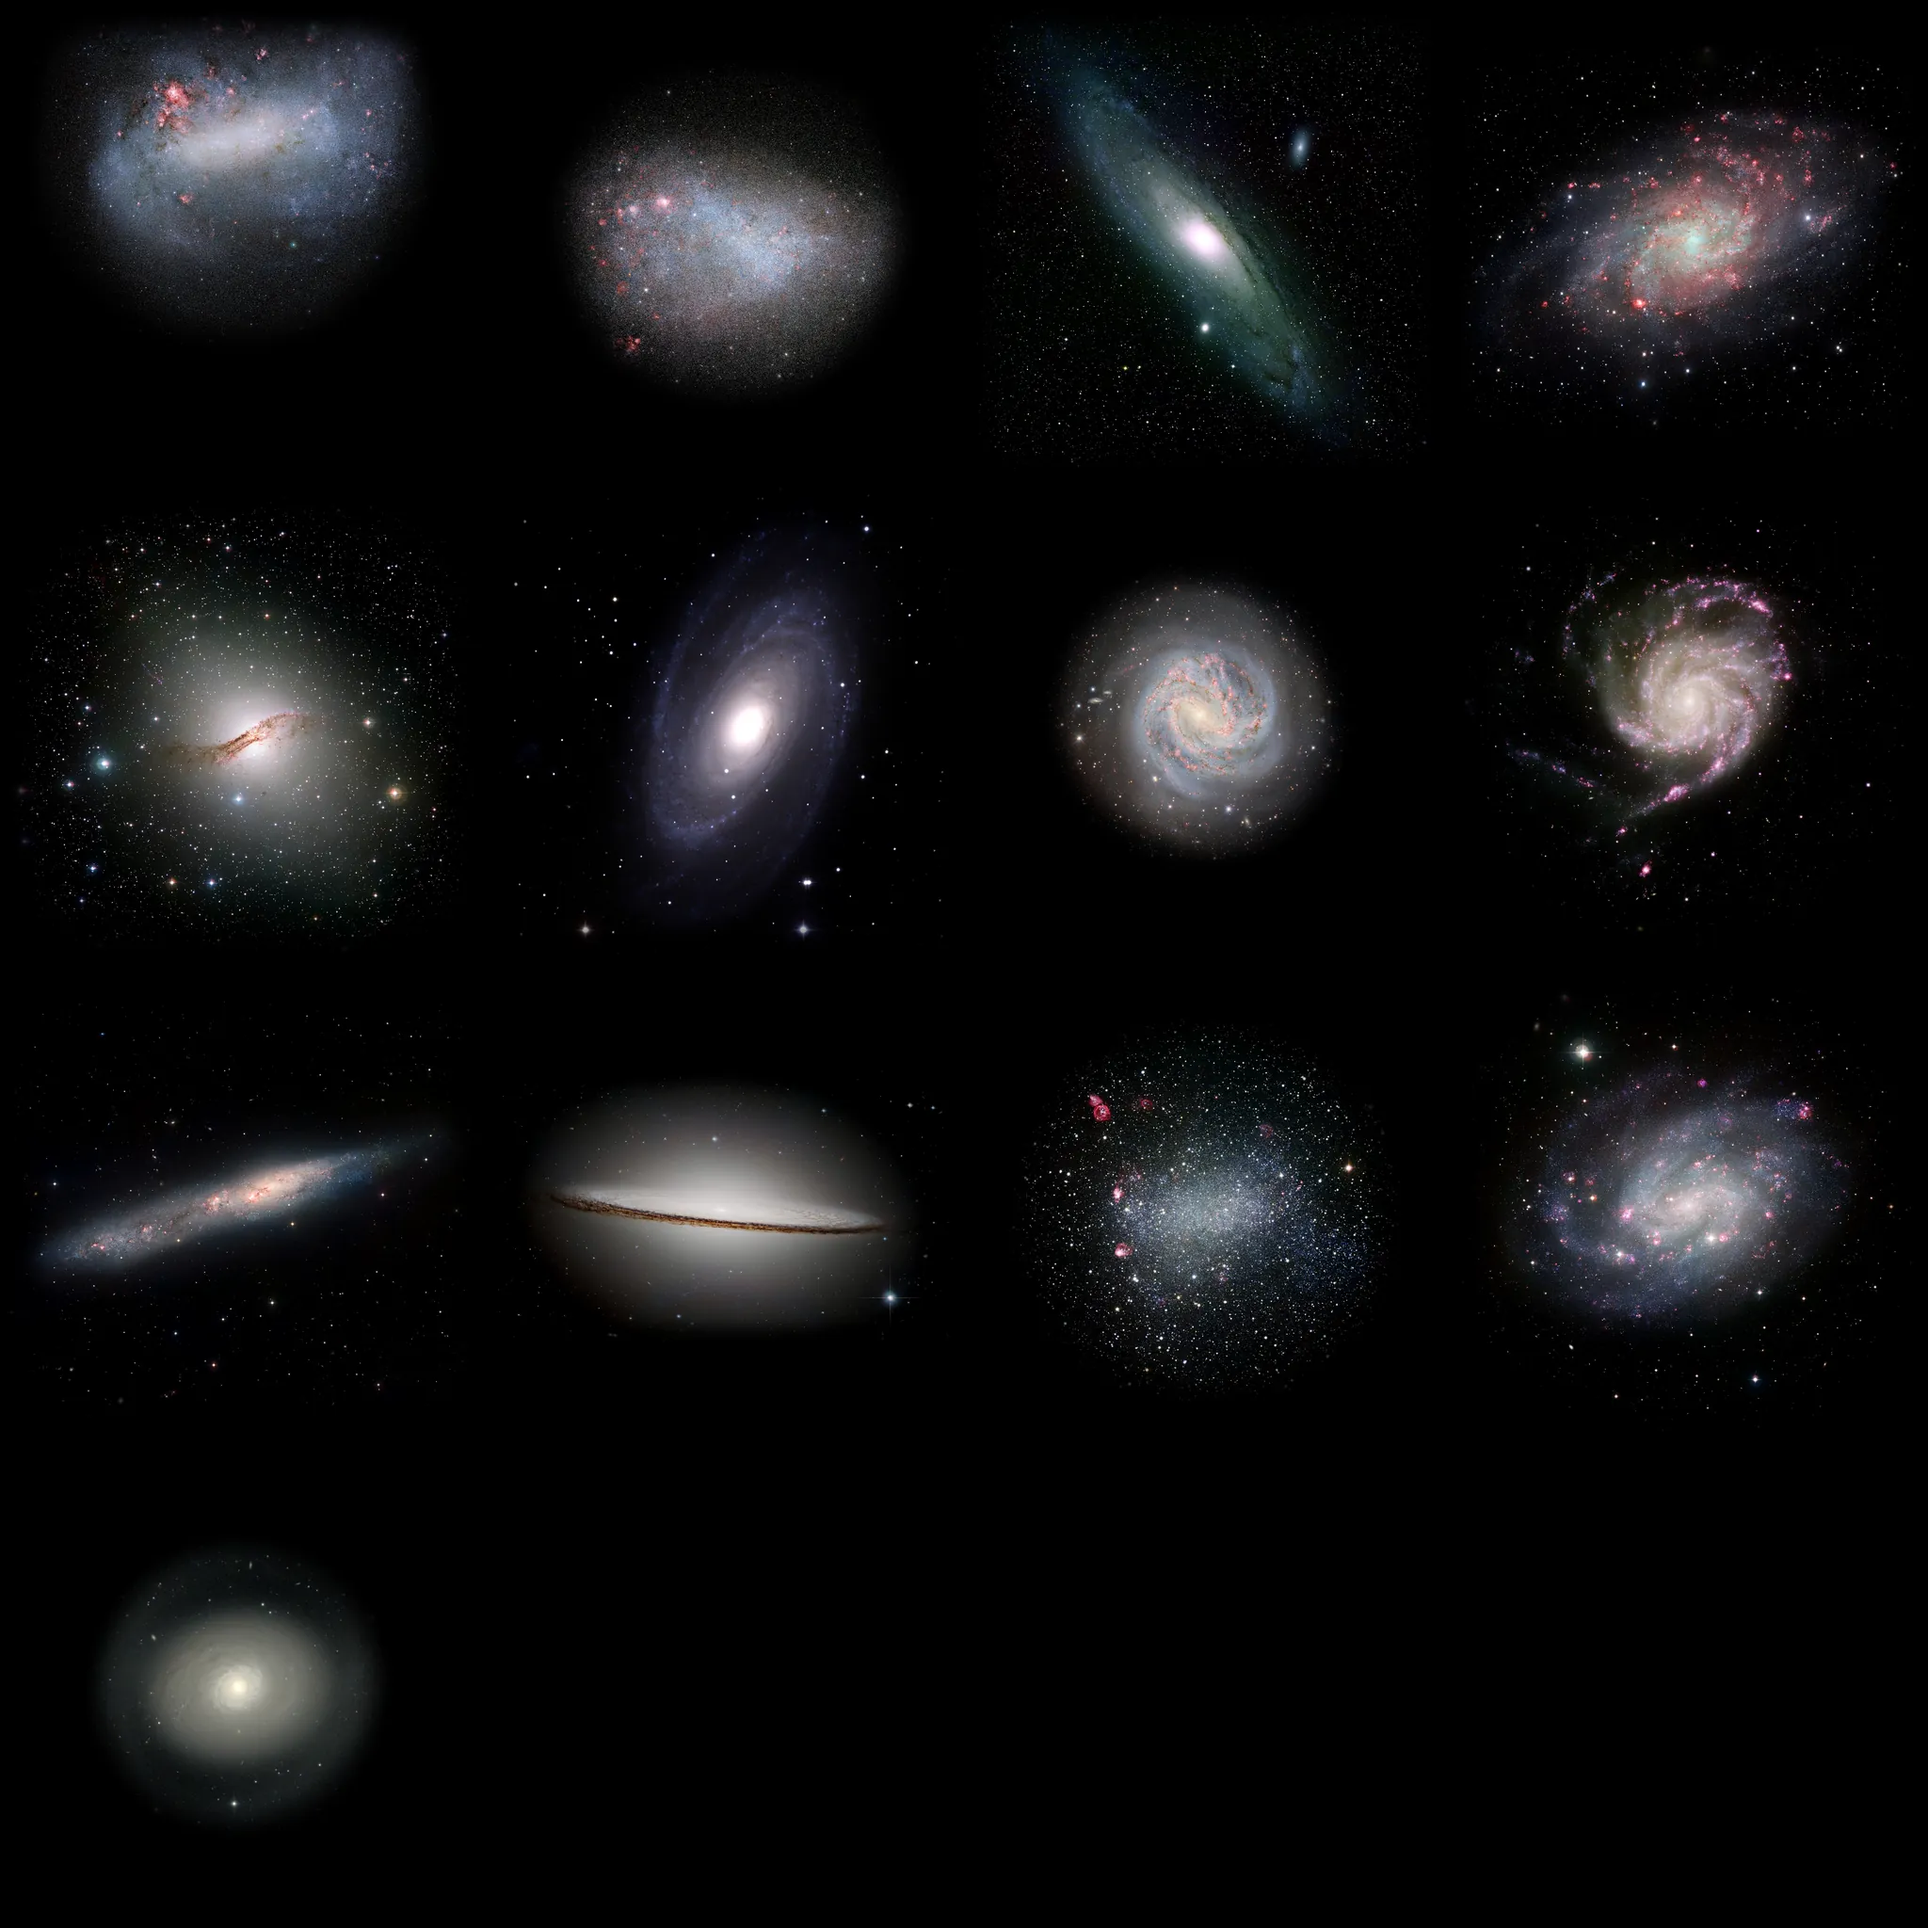
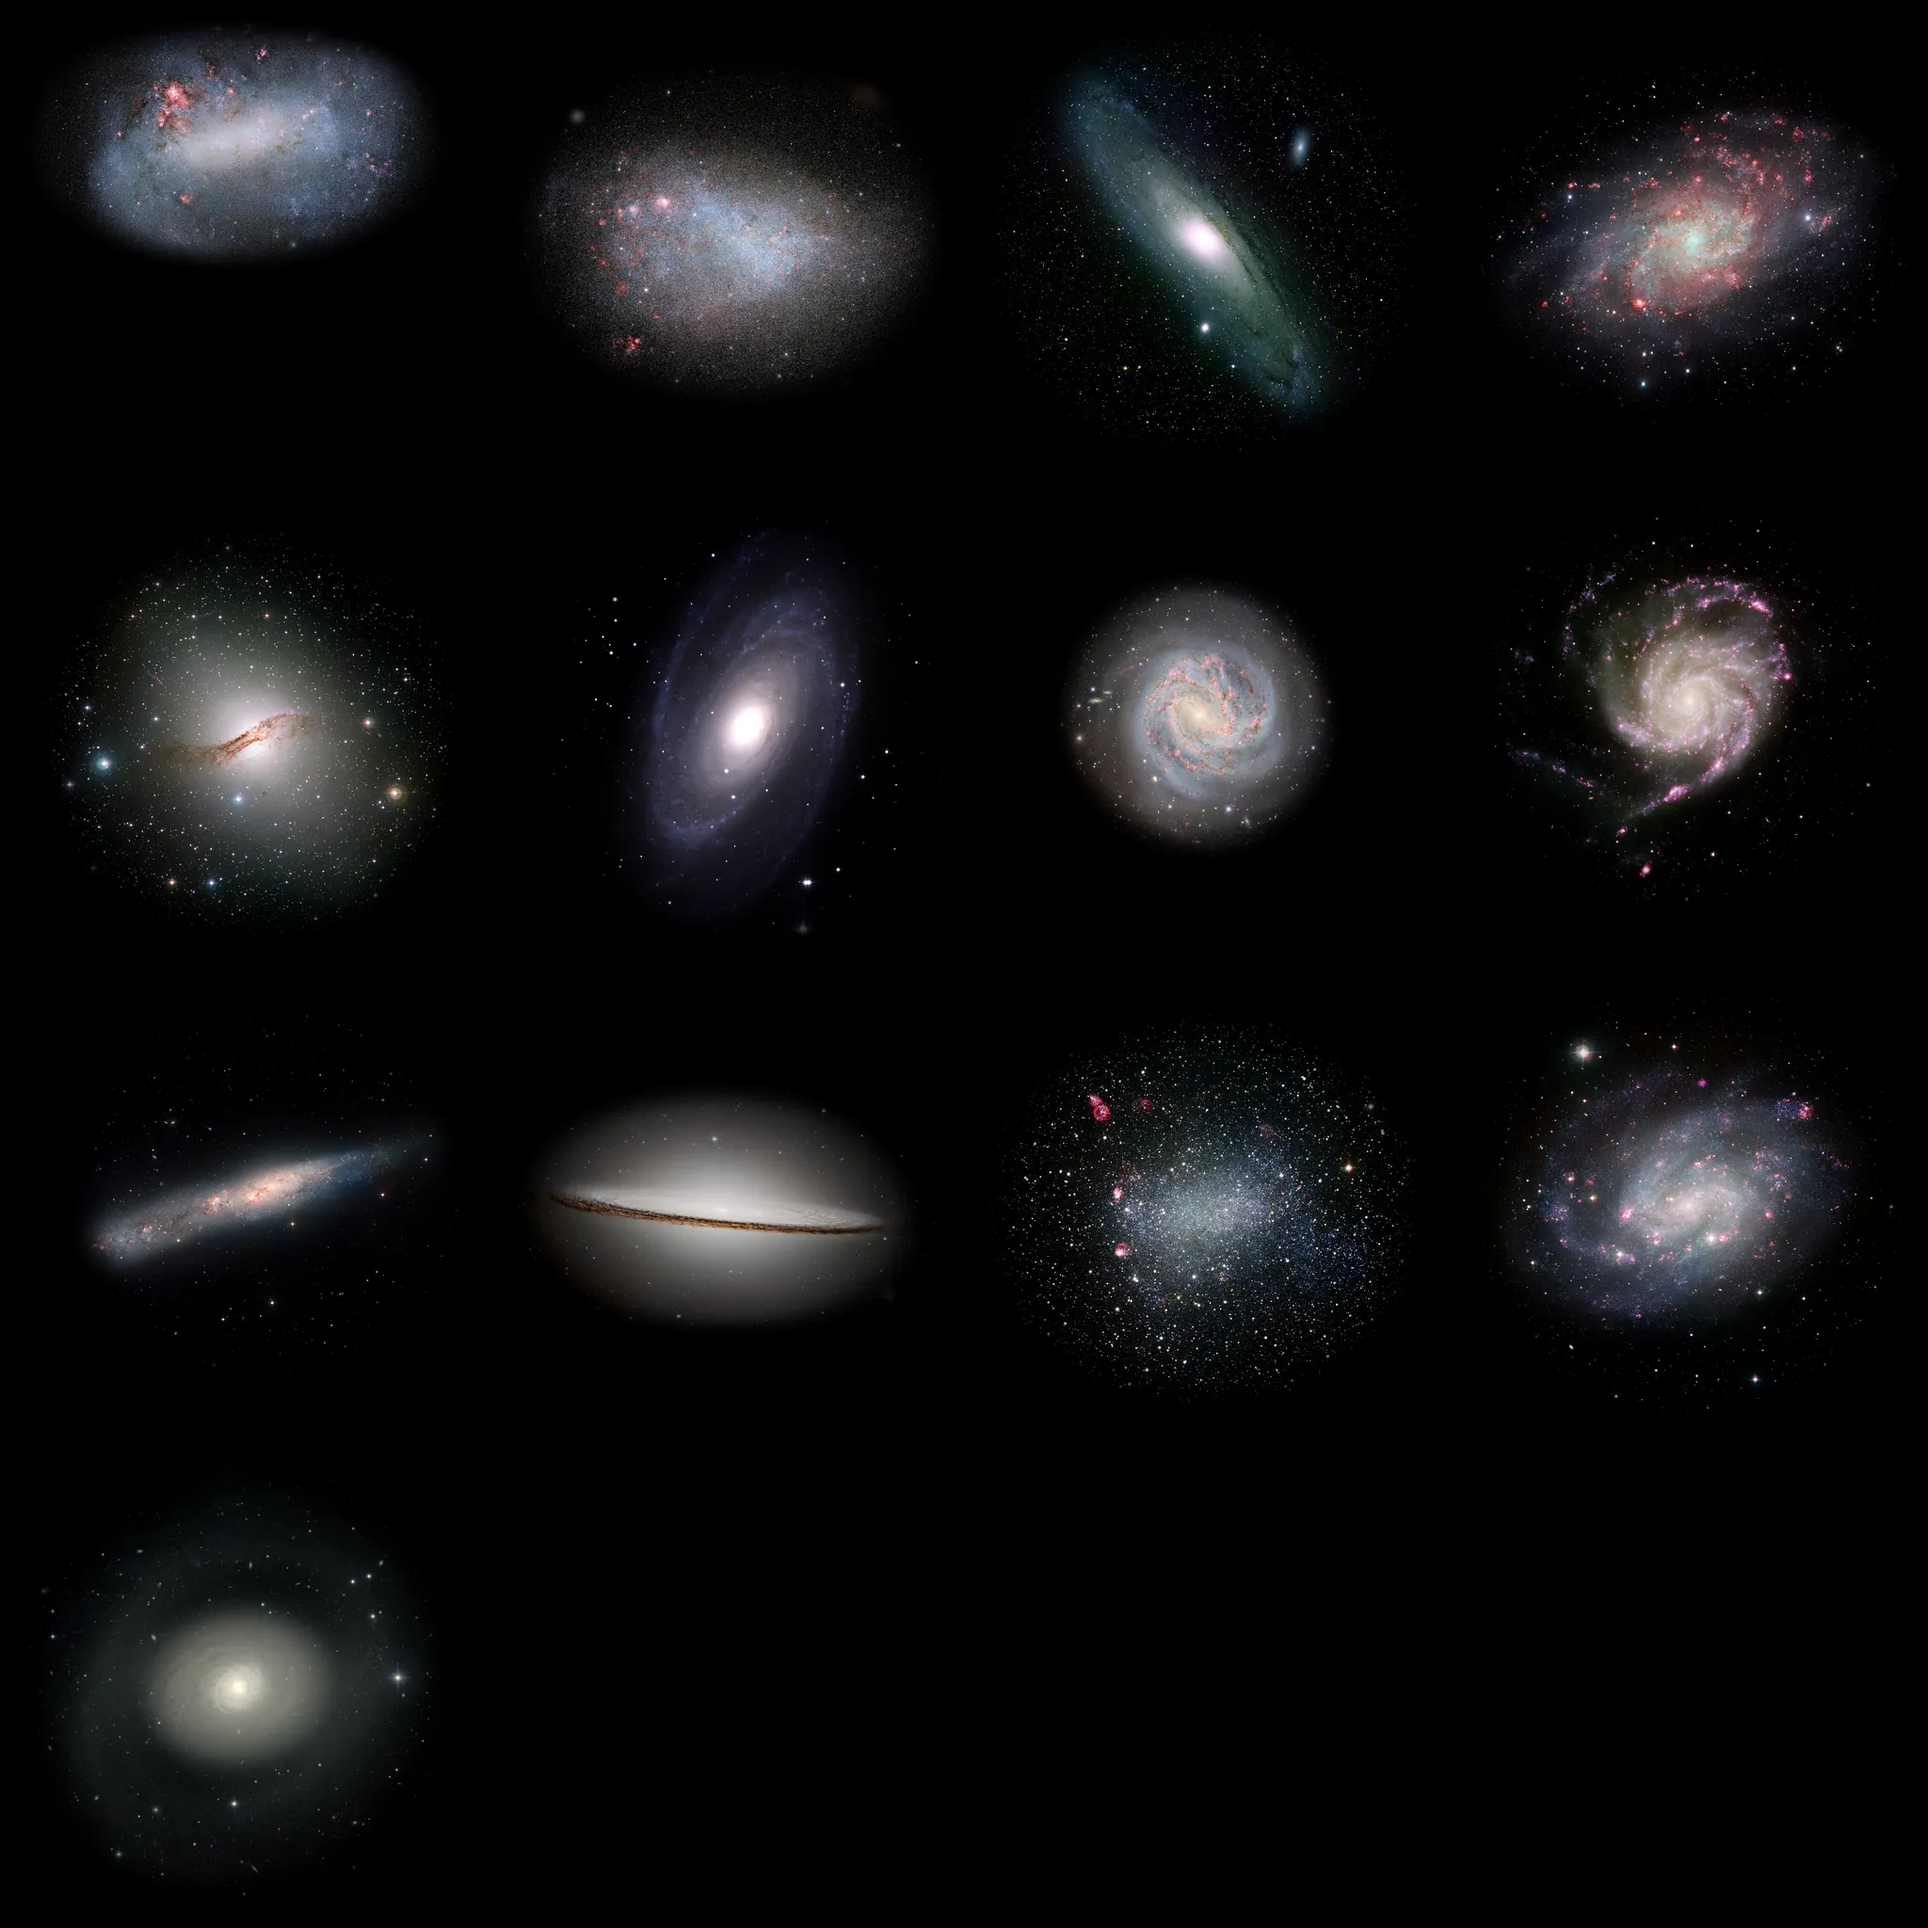
fix(sky): draw every galaxy at RC3's D25 size — M 110 was 15% of it, the Magellanic Clouds half (#269)
* fix(sky): draw every galaxy at RC3's D25 size, not SIMBAD's mixed dimensions

SIMBAD's galdim is not one kind of measurement across the fifteen: against
RC3's D25 it had M 110 at 15%, M 32 at 39%, both Magellanic Clouds at
exactly half, M 94 at 62% and M 81 and M 101 near 77%. Every major and
minor axis now comes from RC3 (VizieR VII/155), committed with its query
at test/fixtures/rc3-galaxies.txt and checked field by field; positions
and magnitudes stay SIMBAD's. Cache key 0.0.1.0.65.

Closes #267

* fix(sky): fade each galaxy picture in an oval that fits its frame, at RC3 sizes

With RC3's D25 the fade circle (1.15 to 1.6 galaxy radii) ran past most
frames, leaving the frame's square to show on the sky again. The fade is
now squeezed, across and down separately, into the largest oval that fits
inside the frame round the galaxy: a circle where it fits, and a long
galaxy in a short frame (the Sombrero) keeps its length. Atlas rebuilt.

Refs #267

---------

diff --git a/site/src/data/galaxies.js b/site/src/data/galaxies.js
@@ -2,15 +2,18 @@
 // Created by Kelly Michels · dev@evomedia.net
 // The code is MIT-licensed (see LICENSE). The data's source and terms are named below and in README.md.
 
-// THE FIFTEEN BRIGHTEST GALAXIES, FROM SIMBAD.
+// THE FIFTEEN BRIGHTEST GALAXIES, FROM SIMBAD AND RC3.
 //
-// Every number here came from one SIMBAD TAP query on 2026-09-25, and that
-// query and its answer are committed at test/fixtures/simbad-galaxies.txt.
-// test/galaxies.test.mjs parses the fixture and compares it to this file
-// field by field, so a coordinate typed wrong is a test failure rather than
-// an arrow pointing at empty sky. That is the same arrangement the magnetic
-// model has with NOAA's test vectors: nothing here is validated against
-// itself.
+// Positions and magnitudes came from one SIMBAD TAP query on 2026-09-25,
+// committed at test/fixtures/simbad-galaxies.txt. SIZES come from RC3's D25
+// (VizieR VII/155), committed at test/fixtures/rc3-galaxies.txt: SIMBAD's
+// own dimensions were not one kind of measurement -- M 110 at 15% of its
+// D25, both Magellanic Clouds at exactly half -- and a "true size" drawn
+// from them was not true (#267). test/galaxies.test.mjs parses both fixtures
+// and compares them to this file field by field, so a number typed wrong is
+// a test failure rather than an arrow pointing at empty sky. That is the
+// same arrangement the magnetic model has with NOAA's test vectors: nothing
+// here is validated against itself.
 //
 // `ra` and `dec` are J2000 degrees and are precessed to the date exactly as
 // the star catalogue is. `mag` is integrated V. `maj` and `min` are the major
@@ -36,35 +39,35 @@
 
 export const GALAXIES = [
   { key: 'lmc', id: 'LMC', name: 'Large Magellanic Cloud',
-    ra: 80.89416666666666, dec: -69.75611111111111, mag: 0.4, maj: 322.82666, min: 274.77 },
+    ra: 80.89416666666666, dec: -69.75611111111111, mag: 0.4, maj: 645.65, min: 549.54 },
   { key: 'smc', id: 'SMC', name: 'Small Magellanic Cloud',
-    ra: 13.158333333333333, dec: -72.80027777777778, mag: 2.2, maj: 158.11333, min: 93.105 },
+    ra: 13.158333333333333, dec: -72.80027777777778, mag: 2.2, maj: 316.23, min: 186.21 },
   { key: 'm31', id: 'M 31', name: 'Andromeda Galaxy',
-    ra: 10.684708333333333, dec: 41.268750000000004, mag: 3.44, maj: 199.53, min: 70.79 },
+    ra: 10.684708333333333, dec: 41.268750000000004, mag: 3.44, maj: 190.55, min: 61.66 },
   { key: 'm33', id: 'M 33', name: 'Triangulum Galaxy',
-    ra: 23.46206906218, dec: 30.660175111980003, mag: 5.72, maj: 60.26, min: 35.48 },
+    ra: 23.46206906218, dec: 30.660175111980003, mag: 5.72, maj: 70.79, min: 41.69 },
   { key: 'cena', id: 'NGC 5128', name: 'Centaurus A',
-    ra: 201.36506337683332, dec: -43.019112508083325, mag: 6.84, maj: 25.7, min: 17.78 },
+    ra: 201.36506337683332, dec: -43.019112508083325, mag: 6.84, maj: 25.7, min: 19.95 },
   { key: 'm81', id: 'M 81', name: "Bode's Galaxy",
-    ra: 148.88821939854, dec: 69.06529514038, mag: 6.94, maj: 21.38, min: 10.23 },
+    ra: 148.88821939854, dec: 69.06529514038, mag: 6.94, maj: 26.92, min: 14.13 },
   { key: 'm83', id: 'M 83', name: 'Southern Pinwheel',
-    ra: 204.25383, dec: -29.865761111111112, mag: 7.52, maj: 13.8, min: 12.88 },
+    ra: 204.25383, dec: -29.865761111111112, mag: 7.52, maj: 12.88, min: 11.48 },
   { key: 'm101', id: 'M 101', name: 'Pinwheel Galaxy',
-    ra: 210.80242916666668, dec: 54.34875, mag: 7.86, maj: 21.88, min: 20.89 },
+    ra: 210.80242916666668, dec: 54.34875, mag: 7.86, maj: 28.84, min: 26.92 },
   { key: 'ngc55', id: 'NGC 55', name: 'NGC 55',
-    ra: 3.7233416666666663, dec: -39.19662777777777, mag: 7.87, maj: 32.36, min: 3.98 },
+    ra: 3.7233416666666663, dec: -39.19662777777777, mag: 7.87, maj: 32.36, min: 5.62 },
   { key: 'm104', id: 'M 104', name: 'Sombrero Galaxy',
-    ra: 189.99763274591663, dec: -11.623054494444448, mag: 8.0, maj: 8.51, min: 5.01 },
+    ra: 189.99763274591663, dec: -11.623054494444448, mag: 8.0, maj: 8.71, min: 3.55 },
   { key: 'm110', id: 'M 110', name: 'M 110',
-    ra: 10.09190514583, dec: 41.68541867226, mag: 8.07, maj: 3.332, min: 2.0991666 },
+    ra: 10.09190514583, dec: 41.68541867226, mag: 8.07, maj: 21.88, min: 10.96 },
   { key: 'm32', id: 'M 32', name: 'M 32',
-    ra: 10.67427, dec: 40.86517, mag: 8.08, maj: 3.375, min: 2.73375 },
+    ra: 10.67427, dec: 40.86517, mag: 8.08, maj: 8.71, min: 6.46 },
   { key: 'ngc6822', id: 'NGC 6822', name: "Barnard's Galaxy",
-    ra: 296.2341625, dec: -14.797580555555559, mag: 8.1, maj: 13.8, min: 12.88 },
+    ra: 296.2341625, dec: -14.797580555555559, mag: 8.1, maj: 15.49, min: 13.49 },
   { key: 'ngc300', id: 'NGC 300', name: 'NGC 300',
-    ra: 13.722694015959998, dec: -37.68421344511, mag: 8.13, maj: 20.89, min: 13.49 },
+    ra: 13.722694015959998, dec: -37.68421344511, mag: 8.13, maj: 21.88, min: 15.49 },
   { key: 'm94', id: 'M 94', name: 'M 94',
-    ra: 192.72114082143, dec: 41.12025024573, mag: 8.24, maj: 6.99078, min: 5.86107 },
+    ra: 192.72114082143, dec: 41.12025024573, mag: 8.24, maj: 11.22, min: 9.12 },
 ];
 
 /** The walk's stops, in the order the button visits them: brightest first. */

diff --git a/site/src/skydraw.js b/site/src/skydraw.js
@@ -246,8 +246,9 @@ export function drawSkyView(ctx, o) {
   // are exaggerated because they would otherwise be a fraction of a pixel and
   // the caption says so. These are the opposite problem: Andromeda is three
   // degrees across, SIX TIMES THE WIDTH OF THE MOON, and the Large Magellanic
-  // Cloud is five. An app that draws them as dots is hiding the one fact that
-  // decides whether one fits the frame you are planning.
+  // Cloud is over ten (RC3's D25, #267). An app that draws them as dots is
+  // hiding the one fact that decides whether one fits the frame you are
+  // planning.
   //
   // An outline and not a fill: a filled blob would claim a brightness these
   // do not have, and would hide the stars behind it. The floor is so that the

diff --git a/site/src/app.js b/site/src/app.js
@@ -3449,7 +3449,7 @@ $('tgtGalaxies').onclick = () => {
 
 // THEY ARE DRAWN AT TRUE SIZE, which is what makes this a real choice rather
 // than clutter: Andromeda is three degrees across and the Large Magellanic
-// Cloud five, so at a narrow field one of them fills the screen.
+// Cloud over ten, so at a narrow field one of them fills the screen.
 function applyGalaxiesLabel() {
   $('skyGalaxies').textContent = skyShowGalaxies
     ? 'Hide the galaxies' : 'Show the galaxies';

diff --git a/scripts/build-galaxy-art.py b/scripts/build-galaxy-art.py
@@ -44,7 +44,12 @@ WHAT IS DONE TO THE PIXELS
       and a little more: the layer draws additively, and a grey sky would
       brighten a square round every galaxy -- turned with the sky, a diamond.
     * Each picture fades out in a circle round ITS GALAXY: whole within 1.15
-      of the galaxy's radius, black by 1.6. The galaxy's place in the frame
+      of the galaxy's radius, black by 1.6. Where that circle would run past
+      the frame it is squeezed, across and down separately, into the largest
+      oval that fits inside the frame round the galaxy -- so the fade never
+      shows the frame's square, and a long galaxy in a short frame (the
+      Sombrero) keeps its length. Sizes are RC3's D25 (#267), which run to a
+      faint isophote and are often wider than the picture. The galaxy's place in the frame
       comes from running the picture's own mapping backwards, so a galaxy
       that is not in the middle of its picture (the Large Magellanic Cloud
       fills the top half of its) keeps its fade round itself. Nothing of a
@@ -222,12 +227,16 @@ def prepare(data: bytes, m: dict, gal: tuple) -> Image.Image:
     f = max(2, int(min(w, h) * FEATHER))
     ramp = lambda n: np.minimum(1.0, np.minimum(np.arange(n) + 0.5, n - np.arange(n) - 0.5) / f)
     fade = (0.5 - 0.5 * np.cos(np.pi * ramp(h)))[:, None] * (0.5 - 0.5 * np.cos(np.pi * ramp(w)))[None, :]
-    # A circle round the galaxy itself.
+    # Round the galaxy itself, and inside the frame: a circle where it fits,
+    # squeezed across and down separately into the frame where it does not.
     gx, gy = (v / k for v in pixel_of(m, gal[0], gal[1]))
     radius = (gal[2] / 2 / 60) / abs(m["scale"][0]) / k
+    ax = max(1.0, min(GONE * radius, gx, w - gx))
+    ay = max(1.0, min(GONE * radius, gy, h - gy))
     yy, xx = np.mgrid[0:h, 0:w]
-    rr = np.hypot(xx + 0.5 - gx, yy + 0.5 - gy) / radius
-    t = np.clip((rr - KEEP) / (GONE - KEEP), 0, 1)
+    q = np.hypot((xx + 0.5 - gx) / ax, (yy + 0.5 - gy) / ay)
+    start = KEEP / GONE                     # whole to here, black at the oval
+    t = np.clip((q - start) / (1 - start), 0, 1)
     fade = fade * (0.5 + 0.5 * np.cos(np.pi * t))
     a = a * fade[:, :, None]
     return Image.fromarray(a.astype(np.uint8), "RGB")

diff --git a/README.md b/README.md
@@ -445,7 +445,8 @@ sits near the bottom, 40 arcminutes from the centre. Checked against the
 pixels, the catalogue positions of M 32 and M 110 land on their cores inside
 the Andromeda picture, within a quarter of an arcminute.
 
-The sky is subtracted and each picture fades out in a circle round its galaxy,
+The sky is subtracted and each picture fades out round its galaxy, in a circle
+or, where the frame is too tight for one, the largest oval that fits inside it,
 so no frame shows. In Night Mode they are drawn in red only, like everything
 else. They follow the **Galaxies** switch.
 
